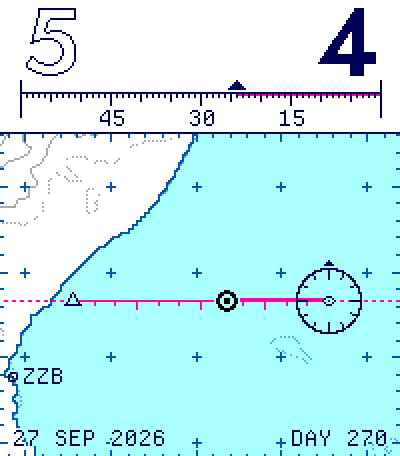
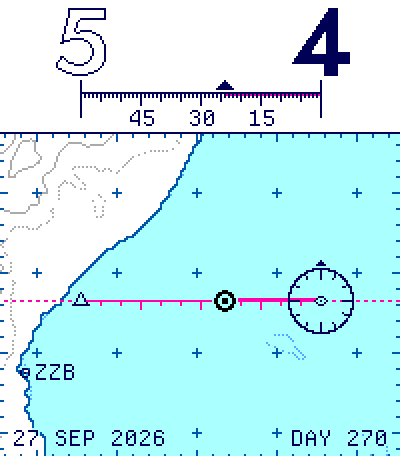
Register the time scale with the route's stations
On the Sun and Moon charts the hour's stations now sit 120 px apart,
directly under the scale's hour marks, so each minute is exactly two
pixels. Every graduation stands over its minute on the route, the index
stays within two pixels of the body's symbol, and each hour figure is
centred over its end mark. Study 05 keeps its 128 px span.

Claude-Session: https://claude.ai/code/session_013jrbqnwLffJYPYurYaCgSZ

diff --git a/index.html b/index.html
@@ -14,5 +14,5 @@
 <details class="art-options"><summary>Clock</summary><div><label class="select-label" for="enroute-zone">Clock zone<select id="enroute-zone"><option value="America/New_York">Eastern time</option><option value="UTC">UTC</option><option value="Europe/London">London</option><option value="Asia/Kolkata">Kolkata</option></select></label><label class="art-checkbox"><input type="checkbox" id="enroute-24"> 24-hour figures</label><label class="art-checkbox"><input type="checkbox" id="enroute-readout"> Minute figure over the index</label></div></details><div class="art-study-date"><span id="enroute-date"></span><span>FROZEN STUDY</span></div></aside></section>
 <section class="compare"><div class="section-heading"><p class="eyebrow">AT READING SIZE</p><p>One display pixel per pixel. The same minute on each plate.</p></div><div id="enroute-proofs" class="comparison-grid"></div></section>
 <section class="reading art-reading"><article><p class="eyebrow">THE CHART</p><h2>Real ground, lightly drawn.</h2><p>Relief comes from NOAA’s ETOPO1 and the USGS GMTED2010 elevation models, generalized and contoured like a jet navigation chart. The continental shelf edge is the real 200 m depth line. Small crosses mark every five degrees, and degree ticks run around the edge like a neatline.</p></article><article><p class="eyebrow">THE ROUTE</p><h2>Two fixes and a magenta line.</h2><p>This hour is a VOR in its compass rose; the next is a reporting point. The route is the magenta line pilots follow on every modern display. The hour is read on a graduated scale, like an instrument tape, with a triangular index; its ends match the fixes on the map.</p></article><article><p class="eyebrow">THE NETWORK</p><h2>Where the astronauts were heard.</h2><p>Codes like TAN, CRO and GDS mark stations of the Mercury and Apollo tracking networks. For the ISS, each carries its acquisition circle, the reach of a low orbit, as drawn on the world maps of the first mission control rooms.</p></article></section>
-<details class="technical"><summary>About this working study</summary><div><p>This is a browser design study, not an installable watchface. Every watch pixel is one of the display’s 64 RGB222 colors. The map is north-up and equidistant cylindrical; for the Sun and Moon the hour’s two stations sit 128 pixels apart, and the ISS, which travels about 240° of longitude in an hour, is shown on a world band. Scenes are frozen until you interact: there is no animation loop, polling, geolocation or sensor use.</p><p>Coastlines are Natural Earth 1:50m land. Relief is a quarter-degree grid built from the AWS Open Data Terrain Tiles at zoom 3, whose sources there are NOAA ETOPO1 and USGS GMTED2010, both public domain; heights are smoothed before contouring and are not for navigation. Day, civil twilight and night come from the calculated Sun at the selected minute. Tracking-station positions are approximate, from public histories of the networks. Acquisition circles show where a 410 km orbit rises five degrees above each station’s horizon, about 15.6° of arc.</p><p>Sun and Moon positions come from Astronomy Engine. The “ISS archive” view uses a bounded June 5, 2019 element set from Satellite.js. Live satellites use current element sets fetched from CelesTrak by this page (at most once every two hours per satellite, and only within three days of their epoch) and propagated with SGP4. Figures are Jost, after Futura; chart lettering is Departure Mono by Helena Zhang; headlines are Michroma, after Microgramma. All three are SIL OFL 1.1. <a href="./NOTICE.txt">Sources and credits</a>.</p><p id="enroute-diagnostics"></p><p>Other studies: <a href="./study-05.html">chart</a> · <a href="./study-04.html">Shorelight</a> · <a href="./study-03.html">two-ink atlas</a> · <a href="./study-02.html">sculptural globe</a> · <a href="./study-01.html">orbital explorer</a>.</p></div></details>
+<details class="technical"><summary>About this working study</summary><div><p>This is a browser design study, not an installable watchface. Every watch pixel is one of the display’s 64 RGB222 colors. The map is north-up and equidistant cylindrical; for the Sun and Moon the hour’s two stations sit 120 pixels apart, directly under the time scale’s hour marks, and the ISS, which travels about 240° of longitude in an hour, is shown on a world band. Scenes are frozen until you interact: there is no animation loop, polling, geolocation or sensor use.</p><p>Coastlines are Natural Earth 1:50m land. Relief is a quarter-degree grid built from the AWS Open Data Terrain Tiles at zoom 3, whose sources there are NOAA ETOPO1 and USGS GMTED2010, both public domain; heights are smoothed before contouring and are not for navigation. Day, civil twilight and night come from the calculated Sun at the selected minute. Tracking-station positions are approximate, from public histories of the networks. Acquisition circles show where a 410 km orbit rises five degrees above each station’s horizon, about 15.6° of arc.</p><p>Sun and Moon positions come from Astronomy Engine. The “ISS archive” view uses a bounded June 5, 2019 element set from Satellite.js. Live satellites use current element sets fetched from CelesTrak by this page (at most once every two hours per satellite, and only within three days of their epoch) and propagated with SGP4. Figures are Jost, after Futura; chart lettering is Departure Mono by Helena Zhang; headlines are Michroma, after Microgramma. All three are SIL OFL 1.1. <a href="./NOTICE.txt">Sources and credits</a>.</p><p id="enroute-diagnostics"></p><p>Other studies: <a href="./study-05.html">chart</a> · <a href="./study-04.html">Shorelight</a> · <a href="./study-03.html">two-ink atlas</a> · <a href="./study-02.html">sculptural globe</a> · <a href="./study-01.html">orbital explorer</a>.</p></div></details>
 </main><footer class="page-footer"><span>GROUNDTRACK / STUDY 06</span><span>CLEARED DIRECT TO THE NEXT HOUR.</span></footer><script type="module" src="/src/enroute-app.js"></script></body></html>

diff --git a/src/enroute-render.js b/src/enroute-render.js
@@ -43,8 +43,11 @@ export const CONTOURS=[500,1000,2000,3000,4000,5000],SHELF=-200;
 const EARTH=6371,ORBIT=410,MASK=5*RAD;
 export const ACQUISITION=(Math.acos(EARTH*Math.cos(MASK)/(EARTH+ORBIT))-MASK)/RAD;
 export const FIGURE={scale:40};
-// The time scale's panel: 180 px for 60 minutes, three pixels a minute.
-export const SCALE={x0:10,x1:190,baseline:46,panel:67};
+// The time scale registers with the route: its hour marks stand over the
+// two stations, 120 px apart on the zoomed charts, so each minute is exactly
+// two pixels and each graduation sits over its minute on the route. The ISS
+// world band spans 180 px, three pixels a minute.
+export const SPAN=120,SCALE={x0:10,x1:190,baseline:46,panel:67};
 // Chart lettering: Departure Mono, drawn on the display's own pixel grid.
 const LABEL=departure.regular;
 
@@ -221,7 +224,7 @@ export function renderEnroute({camera,ground,relief,light:zones,plate,epoch,time
   // their figures, and a solid triangular index at the present minute. The
   // scale runs the way the route does, so its ends match the stations below.
   const parts=clockParts(epoch,timeZone),h=Number(parts.h),hour=String(clock24?h:h%12||12),next=String(clock24?(h+1)%24:(h+1)%12||12);
-  const {x0:X0,x1:X1,baseline:B,panel:P}=SCALE,forward=c1.x>c0.x,at=m=>forward?X0+(X1-X0)*m/60:X1-(X1-X0)*m/60;
+  const {baseline:B,panel:P}=SCALE,X0=camera.world?SCALE.x0:Math.min(c0.x,c1.x),X1=camera.world?SCALE.x1:Math.max(c0.x,c1.x),forward=c1.x>c0.x,at=m=>forward?X0+(X1-X0)*m/60:X1-(X1-X0)*m/60;
   const minutes=Math.max(0,Math.min(60,(epoch-s0.epoch)/MINUTE)),ix=Math.round(at(Math.floor(minutes)));
   for(let y=0;y<P;y++)for(let x=0;x<W;x++)plot(buf,x,y,pal.space);
   const sc=()=>pal.spaceInk,fill=pal.route[0];
@@ -234,7 +237,7 @@ export function renderEnroute({camera,ground,relief,light:zones,plate,epoch,time
     if(m%15===0&&m%60){const label=String(m),lw=textWidth(LABEL,label);for(const [a,b] of textPixels(LABEL,label,x-Math.floor(lw/2)+1,B+17))plot(buf,a,b,sc());}
   }
   // Both hours share one size; this hour is solid, the next in outline.
-  const size=FIGURE.scale,hw=runWidth(hour,size),nw=runWidth(next,size),place=(end,w)=>end===X0?X0+3:X1-w-2;
+  const size=FIGURE.scale,hw=runWidth(hour,size),nw=runWidth(next,size),place=(end,w)=>Math.max(4,Math.min(W-4-w,Math.round(end-w/2)));
   const gx=place(forward?X0:X1,hw),nx=place(forward?X1:X0,nw),gy=4;
   const hourPixels=figurePixels(hour,size,gx,gy),nextSolid=figurePixels(next,size,nx,gy),inside=new Set(nextSolid.map(([a,b])=>a+','+b));
   const nextPixels=nextSolid.filter(([a,b])=>[[1,0],[-1,0],[0,1],[0,-1]].some(([dx,dy])=>!inside.has((a+dx)+','+(b+dy))));
@@ -245,8 +248,8 @@ export function renderEnroute({camera,ground,relief,light:zones,plate,epoch,time
   let minuteBox=null;
   if(readout){
     // Optional digital minute, set plainly over the index.
-    const lw=textWidth(LABEL,parts.m),lo=Math.min(gx,nx)===X0+3?X0+3+Math.max(hw,nw)+3:X0+3,hi=X1-2-Math.max(hw,nw)-3-lw;
-    const lx=Math.max(Math.min(lo,hi),Math.min(Math.max(lo,hi),Math.round(ix-lw/2)));
+    const lw=textWidth(LABEL,parts.m),inner=[Math.min(gx+hw,nx+nw)+3,Math.max(gx,nx)-3-lw];
+    const lx=Math.max(inner[0],Math.min(inner[1],Math.round(ix-lw/2)));
     for(const [a,b] of textPixels(LABEL,parts.m,lx,B-10))plot(buf,a,b,sc());
     minuteBox={x:lx,y:B-18,w:lw,h:8};
   }
@@ -265,7 +268,7 @@ export function renderEnroute({camera,ground,relief,light:zones,plate,epoch,time
     margin(`${String(d.day).padStart(2,'0')} ${MONTHS[d.month-1]} ${d.year}`,`DAY ${String(d.dayOfYear).padStart(3,'0')}`,H-5,ink('ink'));
   }
   return {buf,marker:{x:p.x,y:p.y,lat:body.lat,lon:body.lon},stations,
-    figure:{hour,minute:parts.m,next,box:bounds(hourPixels),nextBox:bounds(nextSolid),index:{x:ix,y:B},readout:minuteBox},rose:camera.world?null:{...c0,r:20}};
+    figure:{hour,minute:parts.m,next,box:bounds(hourPixels),nextBox:bounds(nextSolid),index:{x:ix,y:B},scale:{x0:X0,x1:X1},readout:minuteBox},rose:camera.world?null:{...c0,r:20}};
 }
 // The calendar date where the watch is, and its day of the year.
 const dateFormats=new Map();
@@ -282,7 +285,7 @@ export class EnrouteRenderer{
     const {body,epoch,timeZone,clock24,plate}=state,readout=!!state.readout,start=civilHour(epoch,timeZone);
     const geometryKey=`${body}/${start}`,lightKey=`${geometryKey}/${Math.floor(epoch/MINUTE)}`;
     if(this.geometryKey!==geometryKey){
-      this.camera=chartCamera(body,start);this.ground=groundLayer(this.camera,this.atlas);this.relief=reliefLayer(this.camera,this.meters);
+      this.camera=chartCamera(body,start,{span:SPAN});this.ground=groundLayer(this.camera,this.atlas);this.relief=reliefLayer(this.camera,this.meters);
       this.geometryKey=geometryKey;this.stats.geometryBuilds++;
     }
     if(this.lightKey!==lightKey){this.light=lightLayer(this.ground,epoch);this.lightKey=lightKey;this.stats.lightBuilds++;}

diff --git a/src/chart-render.js b/src/chart-render.js
@@ -40,7 +40,7 @@ export const CHARTS={
 // line at TRACK_Y. The ISS covers about 240 degrees of longitude in an hour,
 // so it gets the whole world in a band, with its hours set in the margins.
 export const SPAN=128,TRACK_Y=150,WORLD={south:-60,north:72,bottom:H-10};
-export function chartCamera(body,start){
+export function chartCamera(body,start,{span=SPAN}={}){
   const world=body!=='sun'&&body!=='moon',step=world?MINUTE/4:MINUTE,lead=(world?20:40)*MINUTE;
   const raw=sampleTrack(body,start-lead,start+60*MINUTE+lead,step);
   // Unwrap longitude so the route is continuous across the antimeridian.
@@ -57,7 +57,7 @@ export function chartCamera(body,start){
   }
   else{
     lat0=(Math.max(...lats)+Math.min(...lats))/2;k=Math.cos(lat0*RAD);
-    scale=SPAN/Math.max(1,(Math.max(...lons)-Math.min(...lons))*k);y0=TRACK_Y;
+    scale=span/Math.max(1,(Math.max(...lons)-Math.min(...lons))*k);y0=TRACK_Y;
   }
   const toScreen=(lat,lon)=>({x:W/2+(lon-lon0)*k*scale,y:y0-(lat-lat0)*scale});
   const toGround=(x,y)=>({lat:lat0+(y0-y)/scale,lon:lon0+(x-W/2)/(k*scale)});

diff --git a/docs/STUDY-06.md b/docs/STUDY-06.md
@@ -11,7 +11,7 @@ The Study 05 chart, redrawn in the language of aeronautical charts and of NASA's
 - **Graticule.** Small crosses every 5° (30° on the ISS world band). Degree ticks run around the edge of the map like a chart's neatline, with a longer tick every 5°.
 - **The route.** The magenta line, which pilots follow on every glass cockpit. It is bold behind the marker, fine ahead and dashed before and after the hour. Ticks mark five minutes, with longer ticks labelled 15, 30 and 45 at the quarters, as on a plotted ground track.
 - **Fixes.** This hour's station is a VOR: a hexagon inside a compass rose, with 30° ticks, longer cardinal ticks and a north arrowhead. The next hour is an open triangle, a reporting point. The map is north-up, so the rose shows true north, not magnetic variation.
-- **The time scale.** The hour is read on a graduated scale across the top of the face, built like an instrument tape or the scale bar in a chart's margin. It is 180 px for 60 minutes, exactly three pixels a minute, so every graduation is evenly spaced. There is a mark every minute, longer marks every five minutes and at the quarters (labelled 15, 30 and 45), and tall hour marks at both ends. The two hour figures stand over those end marks at one size: this hour solid, the next in outline. A solid triangular index points at the present minute, and the hour already flown fills the scale in the route's color. The scale runs the way the route runs on the map, right to left for the Sun and Moon, so each end sits over its own station. An optional plain minute figure can be set over the index. The earlier radar-style data block and the minutes raised beside the hour were both tried and dropped.
+- **The time scale.** The hour is read on a graduated scale across the top of the face, built like an instrument tape or the scale bar in a chart's margin. It registers with the route below it. On the Sun and Moon charts the hour's two stations sit exactly 120 px apart, and the scale's hour marks stand directly over them, so each minute is exactly two pixels. Every graduation sits over its minute on the route, and the index stays within two pixels of the body's symbol. The ISS world band uses 180 px, three pixels a minute, between the ends of its hour. There is a mark every minute, longer marks every five minutes and at the quarters (labelled 15, 30 and 45), and tall hour marks at both ends. The two hour figures are centred over those end marks at one size: this hour solid, the next in outline. A solid triangular index points at the present minute, and the hour already flown fills the scale in the route's color. The scale runs the way the route runs on the map, right to left for the Sun and Moon, so each end sits over its own station. An optional plain minute figure can be set over the index. The earlier radar-style data block and the minutes raised beside the hour were both tried and dropped.
 - **Date.** The zoomed views print the local date and its day of the year in the bottom margin (`27 SEP 2026 · DAY 270`). The day of the year is how Mission Control's clocks counted days. The ISS margin keeps its archive date and altitude.
 - **The present.** The body's own symbol: ☉ for the Sun, the Moon in its calculated phase, or a small station for the ISS.
 - **The network.** Twenty-four stations of the Mercury (1961–63) and Apollo (1967–75) tracking networks, drawn as circled points with their network codes. Examples include TAN (Tananarive, Madagascar), ZZB (Zanzibar), CRO (Carnarvon) and GDS (Goldstone). When labels would collide, the station earlier in the list wins.
